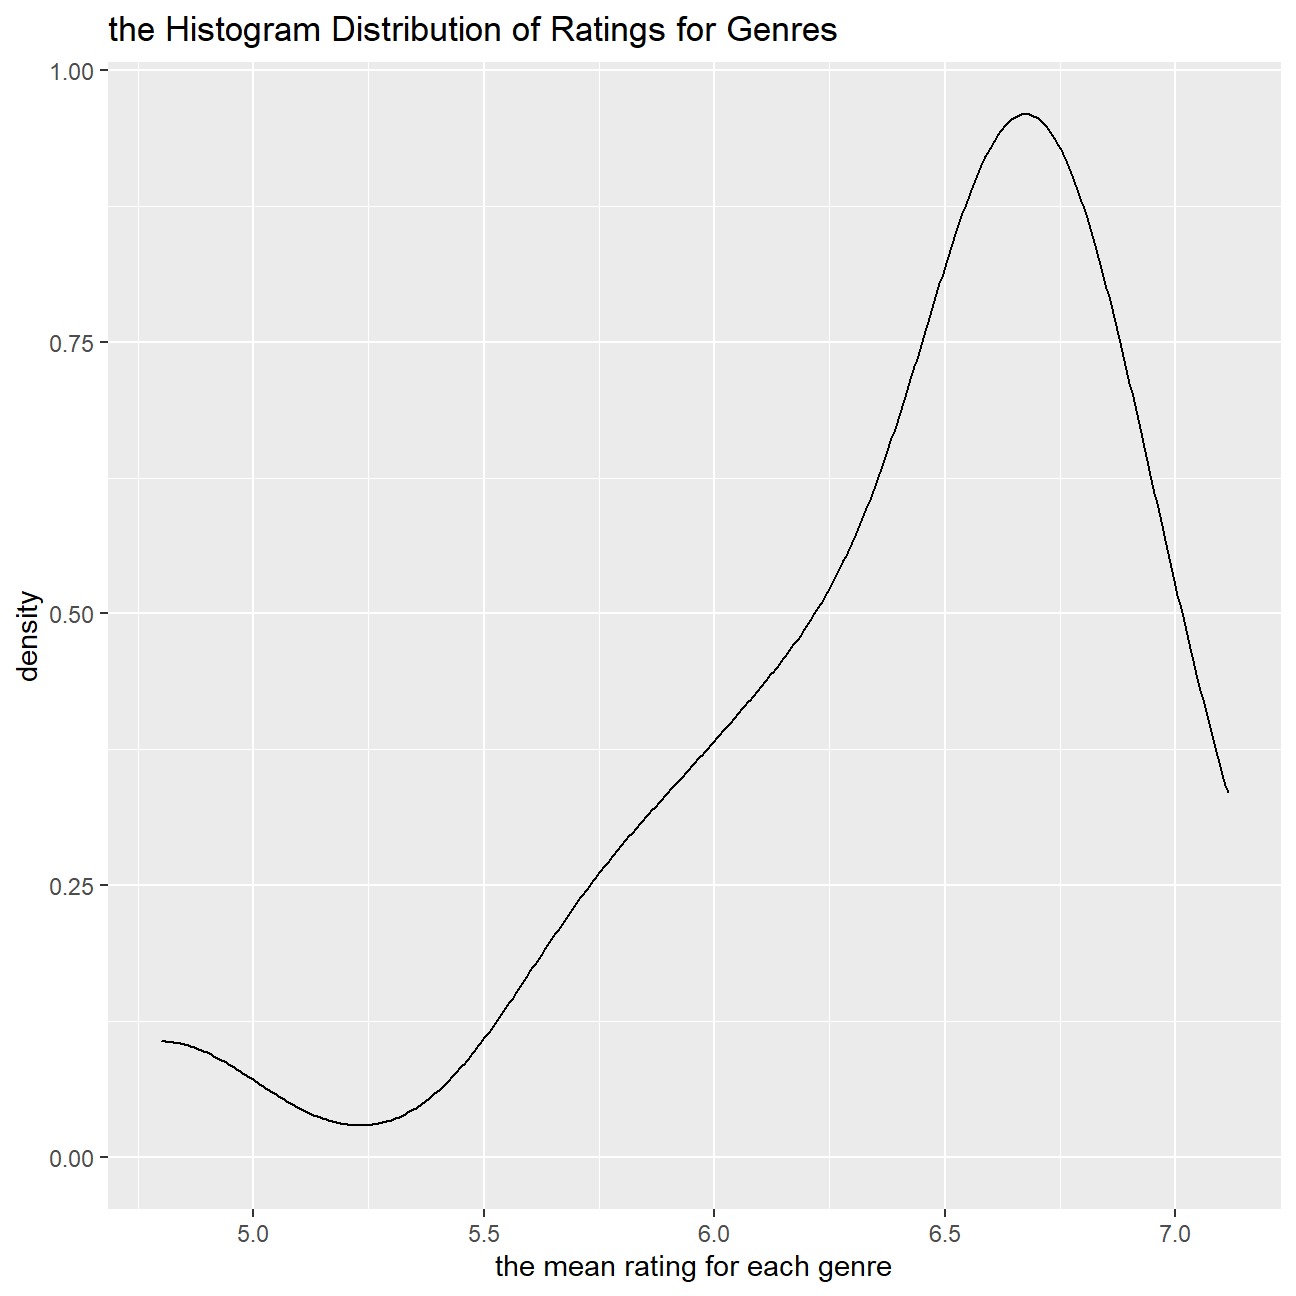
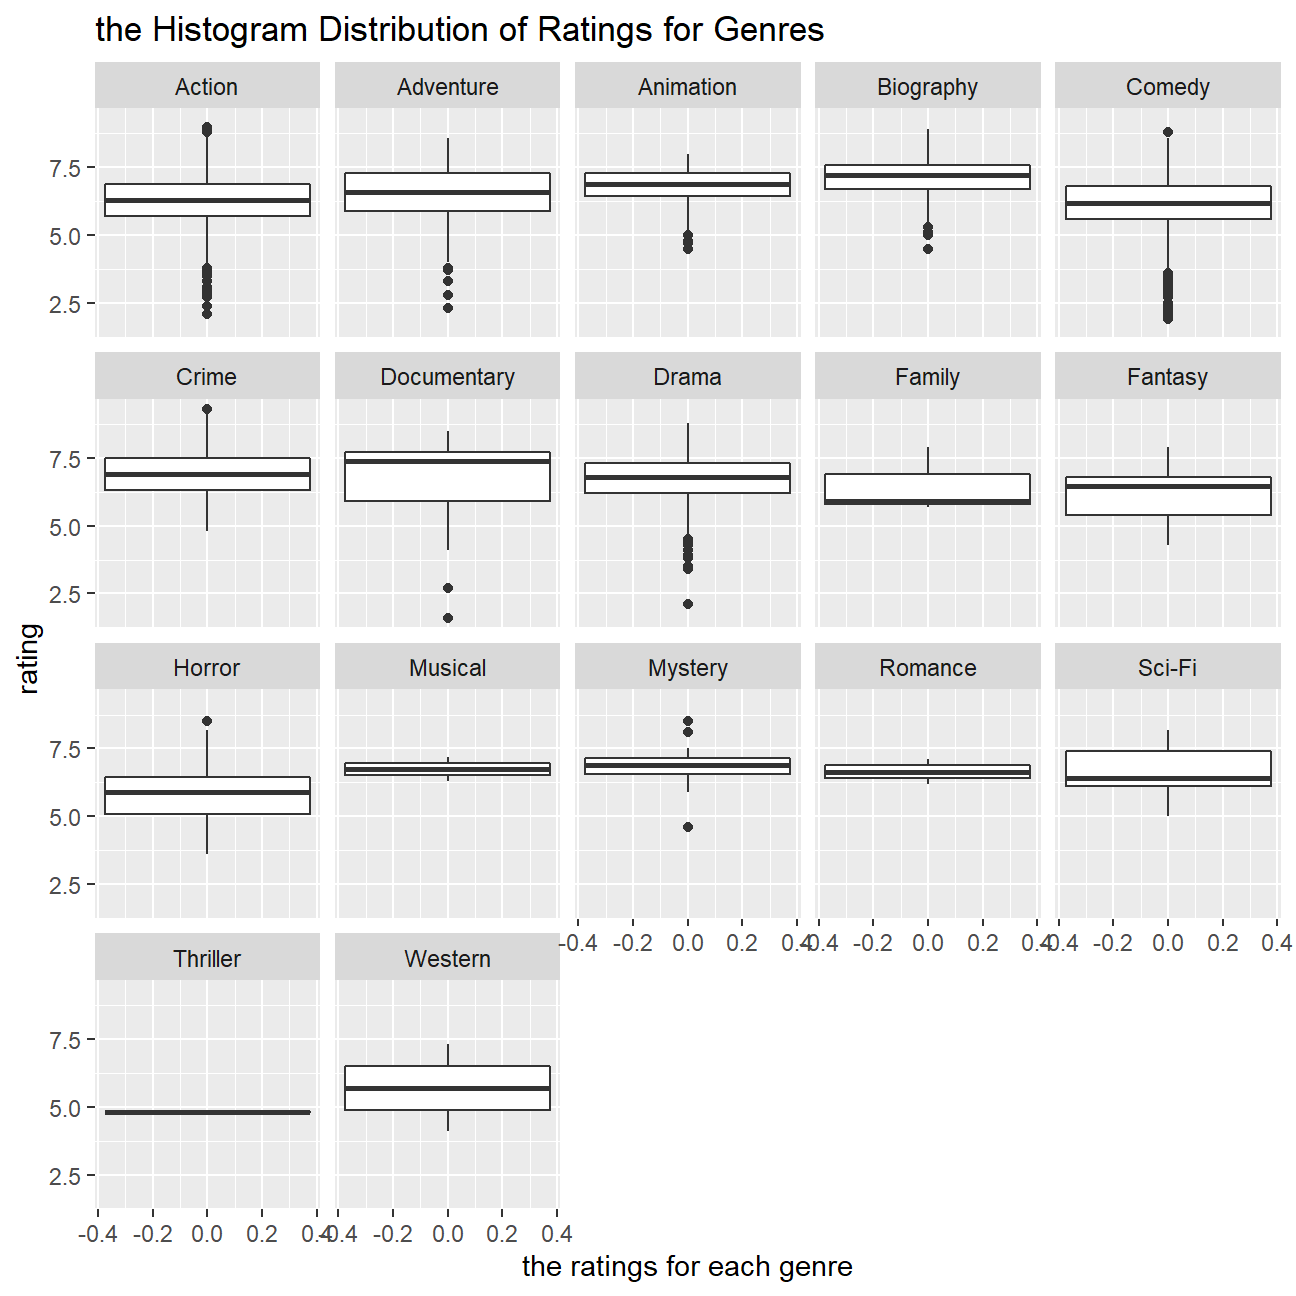
website change

diff --git a/content/projects/project2.html b/content/projects/project2.html
@@ -417,9 +417,9 @@ movies_7</code></pre>
 ## 15 Sci-Fi             6.66        5          8.2       6.4      1.09 
 ## 16 Thriller           4.8         4.8        4.8       4.8     NA    
 ## 17 Western            5.70        4.1        7.3       5.70     2.26</code></pre>
-<pre class="r"><code>ggplot(movies_7,aes(x=mean_rating))+
-geom_density()+labs(title=&quot;the Histogram Distribution of Ratings for Genres&quot;,
-x=&quot;the mean rating for each genre&quot;)</code></pre>
+<pre class="r"><code>ggplot(movies_3,aes(y=rating))+
+geom_boxplot()+facet_wrap(~genre)+labs(title=&quot;the Histogram Distribution of Ratings for Genres&quot;,
+x=&quot;the ratings for each genre&quot;)</code></pre>
 <p><img src="/projects/project2_files/figure-html/ratings-1.png" width="648" style="display: block; margin: auto;" /></p>
 </div>
 <div id="use-ggplot-to-answer-the-following" class="section level2">

diff --git a/public/projects/project2/index.html b/public/projects/project2/index.html
@@ -489,9 +489,9 @@ movies_7</code></pre>
 ## 15 Sci-Fi             6.66        5          8.2       6.4      1.09 
 ## 16 Thriller           4.8         4.8        4.8       4.8     NA    
 ## 17 Western            5.70        4.1        7.3       5.70     2.26</code></pre>
-<pre class="r"><code>ggplot(movies_7,aes(x=mean_rating))+
-geom_density()+labs(title=&quot;the Histogram Distribution of Ratings for Genres&quot;,
-x=&quot;the mean rating for each genre&quot;)</code></pre>
+<pre class="r"><code>ggplot(movies_3,aes(y=rating))+
+geom_boxplot()+facet_wrap(~genre)+labs(title=&quot;the Histogram Distribution of Ratings for Genres&quot;,
+x=&quot;the ratings for each genre&quot;)</code></pre>
 <p><img src="/projects/project2_files/figure-html/ratings-1.png" width="648" style="display: block; margin: auto;" /></p>
 </div>
 <div id="use-ggplot-to-answer-the-following" class="section level2">
